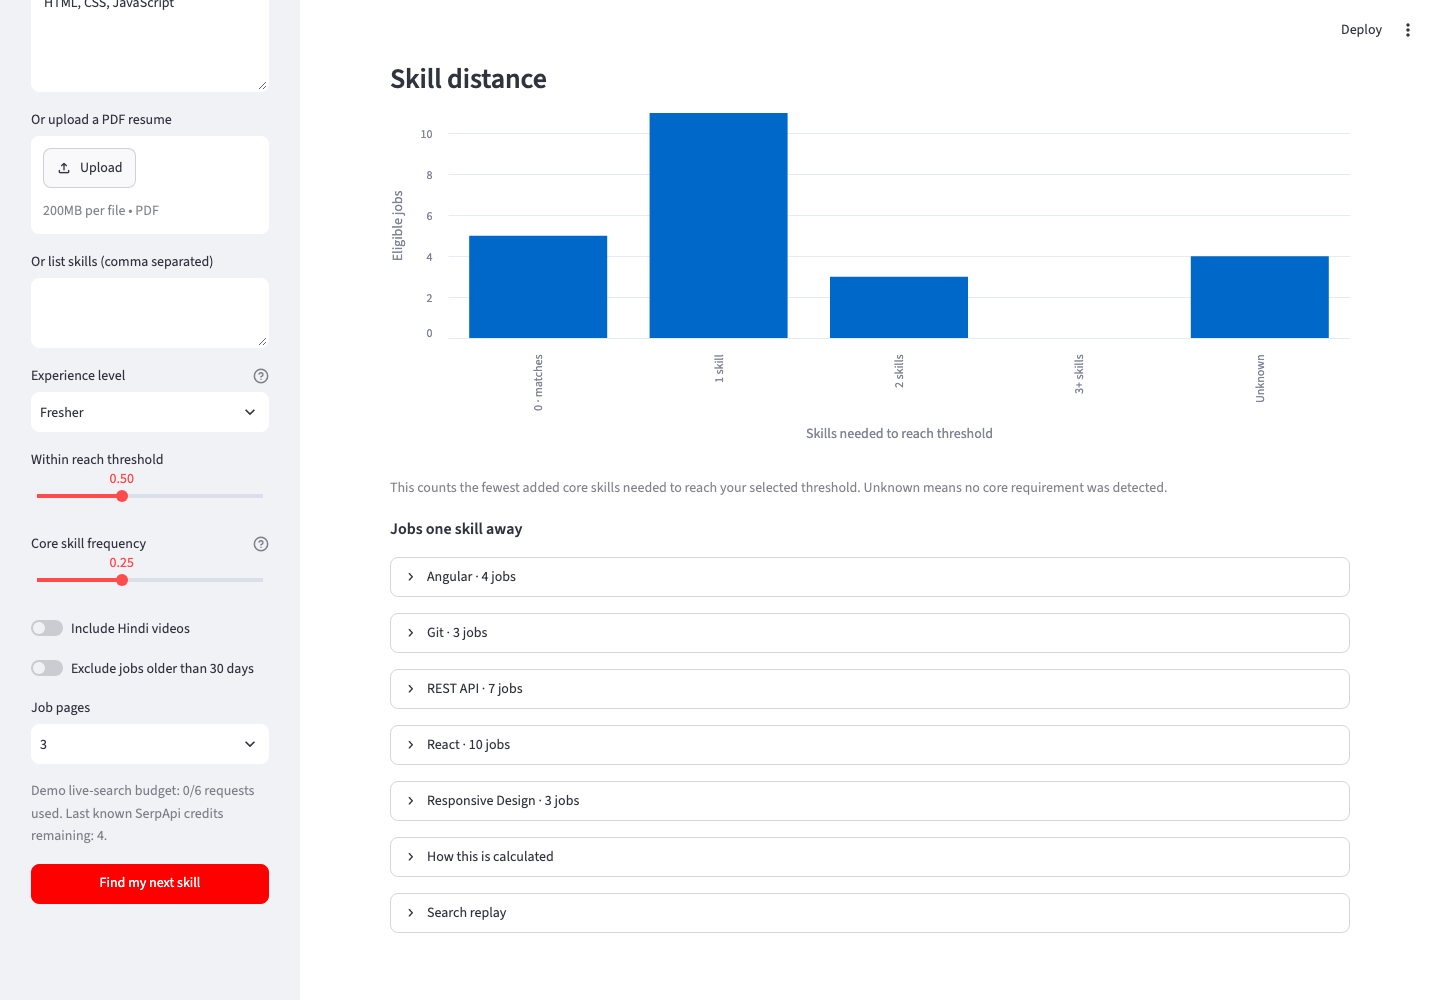
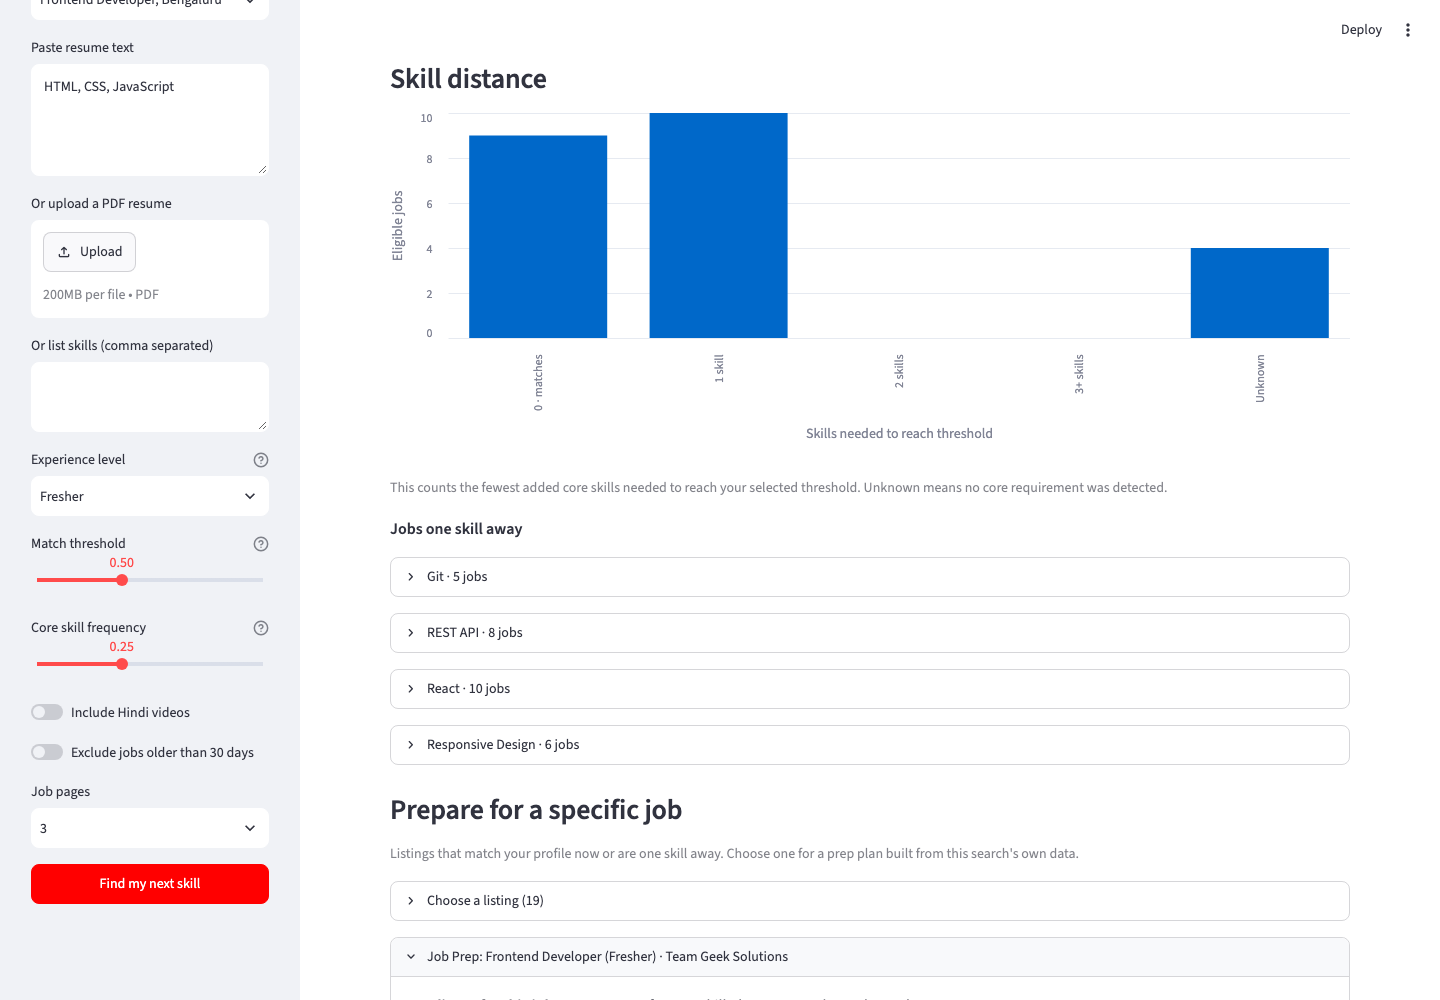
Rerun demos and refresh screenshots and the demo script

diff --git a/scripts/capture_screenshots.py b/scripts/capture_screenshots.py
@@ -72,7 +72,12 @@ with sync_playwright() as playwright:
             page.wait_for_timeout(500)
     page.wait_for_timeout(500)
     if MODE in {"batch_b_replay", "batch_e_replay"}:
-        page.get_by_text("Search replay", exact=True).click()
+        # A click during a rerun can be lost, so retry until the expander shows its contents.
+        for _ in range(3):
+            page.locator("[data-testid=\"stExpander\"] summary").filter(has_text="Search replay").first.click()
+            page.wait_for_timeout(1500)
+            if page.get_by_text("Listing origins", exact=True).is_visible():
+                break
         page.get_by_text("Listing origins", exact=True).wait_for(timeout=30000)
     if page.locator('[data-testid="stException"]').count():
         raise RuntimeError("Streamlit rendered an exception instead of the demo")

diff --git a/reports/final_report.md b/reports/final_report.md
@@ -1,21 +1,26 @@
-# Final demo results after the JS matcher fix
+# Final demo results
 
-Both saved demos were re-run offline with SerpApi requests blocked. No SerpApi search or Account API calls were made. Settings: Fresher, readiness threshold 0.50, core-skill share 0.25, seed 2026. Both job snapshots were retrieved on 2026-10-07 UTC. Full figures are in [final_results.json](final_results.json).
+Both saved demos were re-run offline with SerpApi requests blocked. No SerpApi search or Account API calls were made. Settings: Fresher, match threshold 0.50, core-skill share 0.25, seed 2026. Both job snapshots were retrieved on 2026-10-07 UTC. Full figures are in [final_results.json](final_results.json).
 
-## What changed
+## What changed in the last matcher update
 
-The alias `JS` was matching inside framework names such as Node.js, Next.js and Vue.js, and after a space in React JS or Node JS. Each of those listings gained a JavaScript requirement it never stated. Every demo resume includes JavaScript, so the phantom requirement made Bengaluru listings look closer than they are. `JS` now counts only as a standalone token. The app also shows the **fastest win** (most jobs unlocked per learning hour) next to the **biggest unlock** (most jobs unlocked, regardless of hours). No calculation changed for that display.
+- **Versioned and short names.** HTML5, CSS3, ES6, ES2015 and ECMAScript, Node, Mongo and Express now map to their skills, and MERN and MEAN expand to their member skills. Six of 23 eligible Bengaluru listings say HTML5 or CSS3; three of them previously lost HTML or CSS entirely.
+- **Resume headings.** A resume line such as "Python Developer" now counts Python. Job listings still skip bare role headings.
+- **Negation.** "no Tableau", "not Angular", "without SQL", "Tableau: no" and "currently learning Power BI" no longer count as skills.
+- **Alternatives.** "A, B or C" is one choice only for three tools of one family (BI tools, frontend frameworks, cloud providers, databases); a slash is always a choice. This fixed a Bengaluru listing that had merged "HTML5, CSS3, JavaScript/TypeScript" into one interchangeable requirement.
+- **Preferred skills.** "is a plus", "nice to have" and "preferred" make a skill nice to have, not core, for that listing.
+- **Experience.** "No experience required" and "freshers welcome" override title words such as Lead.
 
 ## Before and after
 
 | Demo | Matches | Fastest win | Biggest unlock | Bootstrap / hour variation | Confidence |
 |---|---|---|---|---|---|
-| Bengaluru before | 8 of 19 | REST API: +8 at 3.12 h | React: +9 at 5.09 h | 77.2% / 66.1% | Likely |
-| Bengaluru after | **5 of 19** | REST API: **+7** at 3.12 h | React: **+10** at 5.09 h | **63.0% / 58.9%** | **Uncertain** |
+| Bengaluru before | 5 of 19 | REST API: +7 at 3.12 h | React: +10 at 5.09 h | 63.0% / 58.9% | Uncertain |
+| Bengaluru after | **9 of 19** | REST API: **+8** at 3.12 h | React: +10 at 5.09 h | 62.2% / **48.5%** | Uncertain |
 | Noida before | 1 of 17 | Data Cleaning: +2 at 1.54 h | SQL: +5 at 4.34 h | 49.2% / 86.1% | Uncertain |
-| Noida after | 1 of 17 | Data Cleaning: +2 at 1.54 h | SQL: +5 at 4.34 h | 49.2% / 86.1% | Uncertain |
+| Noida after | 1 of 17 | Data Cleaning: +2 at 1.54 h | SQL: +5 at 4.34 h | **56.2%** / 86.5% | Uncertain |
 
-The Bengaluru fastest win is still REST API, but its confidence is now Uncertain. React wins 27.8% of the listing resamples. At threshold 0.6, REST API stays first in only 26.4% of hour-variation draws. Noida did not change: none of its saved listings used the affected aliases.
+The Bengaluru fresher now matches four more listings, mostly because HTML5 and CSS3 are recognised. The fastest win and biggest unlock did not change in either demo. Noida changed only in its sensitivity shares, after some Noida skills were marked preferred rather than core.
 
 ## Samples
 
@@ -26,39 +31,50 @@ The Bengaluru fastest win is still REST API, but its confidence is now Uncertain
 
 ## Ranked skills
 
-| Demo | Skill | Jobs unlocked | Course hours | Jobs per hour |
+| Demo | Skill | New matches | Course hours | Matches per hour |
 |---|---|---:|---:|---:|
-| Bengaluru | REST API | 7 | 3.12 | 2.24 |
+| Bengaluru | REST API | 8 | 3.12 | 2.57 |
+| Bengaluru | Responsive Design | 6 | 2.80 | 2.14 |
 | Bengaluru | React | 10 | 5.09 | 1.96 |
-| Bengaluru | Responsive Design | 3 | 2.80 | 1.07 |
-| Bengaluru | Angular | 4 | unavailable | |
-| Bengaluru | Git | 3 | unavailable | |
+| Bengaluru | Git | 5 | unavailable | |
 | Noida | Data Cleaning | 2 | 1.54 | 1.29 |
 | Noida | SQL | 5 | 4.34 | 1.15 |
 | Noida | Power BI | 2 | 3.68 | 0.54 |
 | Noida | Tableau | 2 | 6.00 | 0.33 |
 | Noida | Data Visualization | 1 | 5.46 | 0.18 |
 
-Angular and Git have no saved course results, so the app shows them without an hours estimate and does not score them.
+Git has no saved course results, so the app shows it without an hours estimate and does not score it.
 
 ## Plans
 
 | Demo | Opportunity curve: cumulative hours → matching listings | Two-skill plan |
 |---|---|---|
-| Bengaluru | 0 h → 5; REST API 3.12 h → 12; Responsive Design 5.92 h → 17; React 11.01 h → 19 | React + Responsive Design: +14 at 7.89 h |
+| Bengaluru | 0 h → 9; REST API 3.12 h → 17; React 8.21 h → 19 | React + REST API: +10 at 8.21 h |
 | Noida | 0 h → 1; Data Cleaning 1.54 h → 3; SQL 5.89 h → 11; Tableau 11.89 h → 13 | SQL + Tableau: +10 at 10.35 h |
 
 | Demo | Measured candidates | 5 h greedy / exact | 10 h greedy / exact | 15 h greedy / exact |
 |---|---:|---|---|---|
-| Bengaluru | 3 | 7 / 7 | **12 / 14** | 14 / 14 |
+| Bengaluru | 3 | 8 / 8 | 10 / 10 | 10 / 10 |
 | Noida | 5 | **2 / 5** | 11 / 11 | 12 / 12 |
 
-Exact search beats greedy twice. In Bengaluru at 10 hours, greedy takes REST API then Responsive Design (+12, 5.92 h). The exact optimum is React plus Responsive Design (+14, 7.89 h). In Noida at 5 hours, greedy takes Data Cleaning (+2), while SQL alone gives +5.
+Exact search beats greedy once: in Noida at 5 hours, greedy takes Data Cleaning (+2) while SQL alone gives +5. Before this update, exact search also beat greedy in Bengaluru at 10 hours; with the corrected matches, greedy now reaches the exact gain there.
 
-Skill distance, Bengaluru: 0 skills 5, 1 skill 11, 2 skills 3, 3+ none, unknown 4. Noida: 0 skills 1, 1 skill 11, 2 skills 5, 3+ none, unknown 3.
+Skill distance, Bengaluru: 0 skills 9, 1 skill 10, 2 skills 0, 3+ none, unknown 4. Noida: 0 skills 1, 1 skill 11, 2 skills 5, 3+ none, unknown 3.
+
+## Job Prep demo listing
+
+For "Frontend Developer (Fresher)" at Team Geek Solutions the profile covers 3 of 7 core skills; REST API, React or Responsive Design alone would make it a match. The suggested order is React (mentioned 3 times; 13 of 23 eligible listings), then revising JavaScript (17 of 23), HTML (16 of 23) and CSS (15 of 23), then REST API, Responsive Design and UI/UX. The time plan is about 8.9 to 14.4 hours: 39 minutes of revision videos plus 11.0 hours of full courses.
+
+## Earlier change: JS inside framework names
+
+The alias `JS` used to match inside Node.js, Next.js, Vue.js and React JS, adding a JavaScript requirement those listings never stated. Fixing it moved the Bengaluru demo from 8 to 5 matches and its confidence from Likely to Uncertain; Noida did not change. The numbers above include that fix.
+
+## Speed
+
+Analysis caches skill matching by text and the app caches saved-data results by input. In an offline app test a demo run took 2.4 seconds on first load and 0.1 seconds when repeated, down from 13 to 15 seconds.
 
 ## Verification
 
-- At the time of this report, 46 offline tests passed, including standalone `JS` matching and both pick layouts. The suite has since grown; see the README for the current count.
-- Screenshots: [Bengaluru](../screenshots/final_frontend.png), [Noida](../screenshots/final_noida.png), [Bengaluru curve](../screenshots/final_frontend_plan.png), [Noida curve](../screenshots/final_noida_plan.png), [Bengaluru distance](../screenshots/final_frontend_distance.png), [Noida distance](../screenshots/final_noida_distance.png), [Search Replay](../screenshots/final_replay.png).
-- Earlier behaviour is recorded in the [Batch E report](archive/batch_e_report.md).
+- 69 offline tests pass, including 47 realistic resume lines, live-budget tests with a mocked client, and the Job Prep plan for the demo listing.
+- Screenshots: [Bengaluru](../screenshots/final_frontend.png), [Noida](../screenshots/final_noida.png), [Bengaluru curve](../screenshots/final_frontend_plan.png), [Noida curve](../screenshots/final_noida_plan.png), [Bengaluru distance](../screenshots/final_frontend_distance.png), [Noida distance](../screenshots/final_noida_distance.png), [Job Prep](../screenshots/final_jobprep.png), [Search Replay](../screenshots/final_replay.png).
+- Earlier iterations are recorded in the [archive](archive/README.md).

diff --git a/DEMO.md b/DEMO.md
@@ -3,18 +3,17 @@
 **Before recording**
 
 - Run the app **locally** with `streamlit run app.py`, with your key in `.env`. The hosted app has no key and cannot do the live step.
-- Leave **Demo data** on. The Bengaluru frontend fresher result (HTML, CSS, JavaScript) appears automatically. Keep **Fresher**, threshold **0.50** and core share **0.25**.
-- Live step cost: 1 job search, plus one YouTube search for each top skill without a cached course. SQL, Tableau, Data Cleaning and Data Visualization courses are already cached and cost nothing. Expect about 1 to 3 credits, never more than 6. The Account API showed **2 credits left** on 2026-10-08 after the Job Prep revision searches, so check your SerpApi dashboard first; with only 2 credits the live step may not finish. Do not rehearse the live step, and do not fetch revision videos during the recording.
-- If SerpApi is slow, pause the recording while the live search loads. Check that the exported video is 2:45 or shorter.
+- Leave **Demo data** on. The Bengaluru frontend fresher result (HTML, CSS, JavaScript) appears automatically. Keep **Fresher**, match threshold **0.50** and core share **0.25**.
+- Credits: the Account API showed **2 credits left** on 2026-10-08. Check the balance in the sidebar after turning on Live search, and set the **Live search budget** to no more than what remains. With a budget of 2 the live step makes at most 2 new searches; if the budget runs out, the app shows the listings it fetched and marks the remaining course hours as unknown instead of failing. Do not rehearse the live step, and do not fetch Job Prep revision videos during the recording.
+- If SerpApi is slow, pause the recording while the live search loads. Check that the exported video is 2:45 or shorter, and that its link opens in a private or incognito window without signing in.
 
 | Time | On screen | Narration |
 |---|---|---|
-| 0:00-0:20 | Hero, then the Bengaluru headline and snapshot date. | "Freshers see a wall of skills in job listings and don't know what to learn first. This Bengaluru frontend fresher knows HTML, CSS and JavaScript. Of 19 local listings NextSkill could score, the profile matches 5." |
-| 0:20-0:55 | The **Fastest win** and **Biggest unlock** cards. Open the REST API card: expand **7 jobs this skill could unlock**, then point at the course videos. | "REST API is the fastest win: 7 more listings for about 3 hours of free courses. React is the biggest unlock: 10 more listings, but about 5 hours. The app shows both. These are the real listings behind the 7, and these free courses set the hour estimate." |
-| 0:55-1:15 | Scroll to **Opportunity curve**, then open **Greedy plan vs exact budgets**. | "The curve adds the best next skill per hour, reaching 19 listings in about 11 hours. We check it against an exact search: at 10 hours, greedy adds 12 matches, but React plus Responsive Design adds 14." |
-| 1:15-1:30 | Scroll to the open **Job Prep** plan for Frontend Developer (Fresher) at Team Geek Solutions. Point at readiness, the order table and the JavaScript revision videos. | "Job Prep turns one listing into a plan. This profile covers 3 of 7 core skills. React comes first, then revising JavaScript, which 17 of 23 listings ask for, with two short videos." |
-| 1:30-1:50 | Change **Demo role** to **Data Analyst, Noida** and press **Find my next skill**. Point at the **Uncertain** label. | "Not every answer is clear. For this Noida analyst fresher, Data Cleaning is the fastest win, with 2 more listings in about one and a half hours. SQL unlocks 5. Data Cleaning wins only 49 percent of resamples, so the app labels it Uncertain." |
-| 1:50-2:25 | Turn on **Live search**. Enter **Data Analyst**, **Hyderabad**, experience **1-3 years**, job pages **1**. Press **Find my next skill**, then open **Search replay** and show the credit message. | "Now a live search: Data Analyst in Hyderabad, one to three years of experience, one page. SerpApi fetches current Google Jobs listings and YouTube course lengths. Search Replay marks the job search as a live SerpApi request and reused course searches as local cache, and the message shows the credits used." |
-| 2:25-2:45 | Scroll to **How this is calculated**, then back to the top cards. | "Matches mean skill coverage, not a hiring prediction, and course length is not time to mastery. NextSkill turns a wall of job requirements into one clear next step, with the evidence to check it." |
+| 0:00-0:20 | Hero and the "Learn REST API next" line. | "Priya just finished her degree in Bengaluru. She knows HTML, CSS and JavaScript. Which one skill should she learn this month? NextSkill read 45 real Bengaluru listings through SerpApi and answers: REST API." |
+| 0:20-0:50 | Match line, then the **Fastest win** and **Biggest unlock** cards. Open the REST API card: expand **8 listings this skill would add as matches**, then point at the course videos. | "Her profile matches 9 of 19 scored listings. REST API is the fastest win: 8 more matches for about 3 hours of free courses. React is the biggest unlock, 10 more, but about 5 hours, so the app shows both. These are the real listings behind the 8, and these free courses set the hour estimate." |
+| 0:50-1:10 | Scroll to the open **Job Prep** plan for Frontend Developer (Fresher) at Team Geek Solutions. Point at readiness, the order table and the JavaScript revision videos. | "Pick one listing and NextSkill builds a prep plan from the same data. For this fresher job she covers 3 of 7 core skills. React comes first, then revising JavaScript, which 17 of 23 listings ask for, with two short videos." |
+| 1:10-1:35 | Change **Demo role** to **Data Analyst, Noida** and press **Find my next skill**. Point at **Recommendation confidence: Uncertain**, then open **Greedy plan vs exact budgets**. | "Not every answer is clear. For a Noida analyst fresher, Data Cleaning is the fastest win, 2 more listings in about one and a half hours, but SQL unlocks 5. Data Cleaning wins only 56 percent of resamples, so the app says Uncertain. And with a 5-hour budget, SQL alone beats the step-by-step plan, 5 matches to 2." |
+| 1:35-2:15 | Turn on **Live search**. Show the credit balance and set **Live search budget** to the credits left. Enter **Data Analyst**, **Hyderabad**, experience **1-3 years**, job pages **1**, point at "This search may use up to N credits", press **Find my next skill**, then open **Search replay**. | "Now a live search: Data Analyst in Hyderabad, one to three years of experience, one page. The sidebar shows my SerpApi balance, and the budget caps how many new searches this run can make. SerpApi fetches current Google Jobs listings and YouTube course lengths. Search Replay marks each request as live, cached or skipped by the budget." |
+| 2:15-2:45 | Open **How this is calculated**, then scroll back to the top line. | "A match means skill coverage, not a hiring prediction, and course length is not time to mastery. Every number links back to a real listing or a real course. NextSkill turns a wall of job requirements into one clear next step." |
 
-Reference screenshots: [Bengaluru](screenshots/final_frontend.png), [Bengaluru plan](screenshots/final_frontend_plan.png), [Job Prep](screenshots/final_jobprep.png), [Noida](screenshots/final_noida.png), [Search Replay](screenshots/final_replay.png). All demo figures come from [the final report](reports/final_report.md).
+Reference screenshots: [Bengaluru](screenshots/final_frontend.png), [Job Prep](screenshots/final_jobprep.png), [Noida](screenshots/final_noida.png), [Noida plan](screenshots/final_noida_plan.png), [Search Replay](screenshots/final_replay.png). All demo figures come from [the final report](reports/final_report.md).
